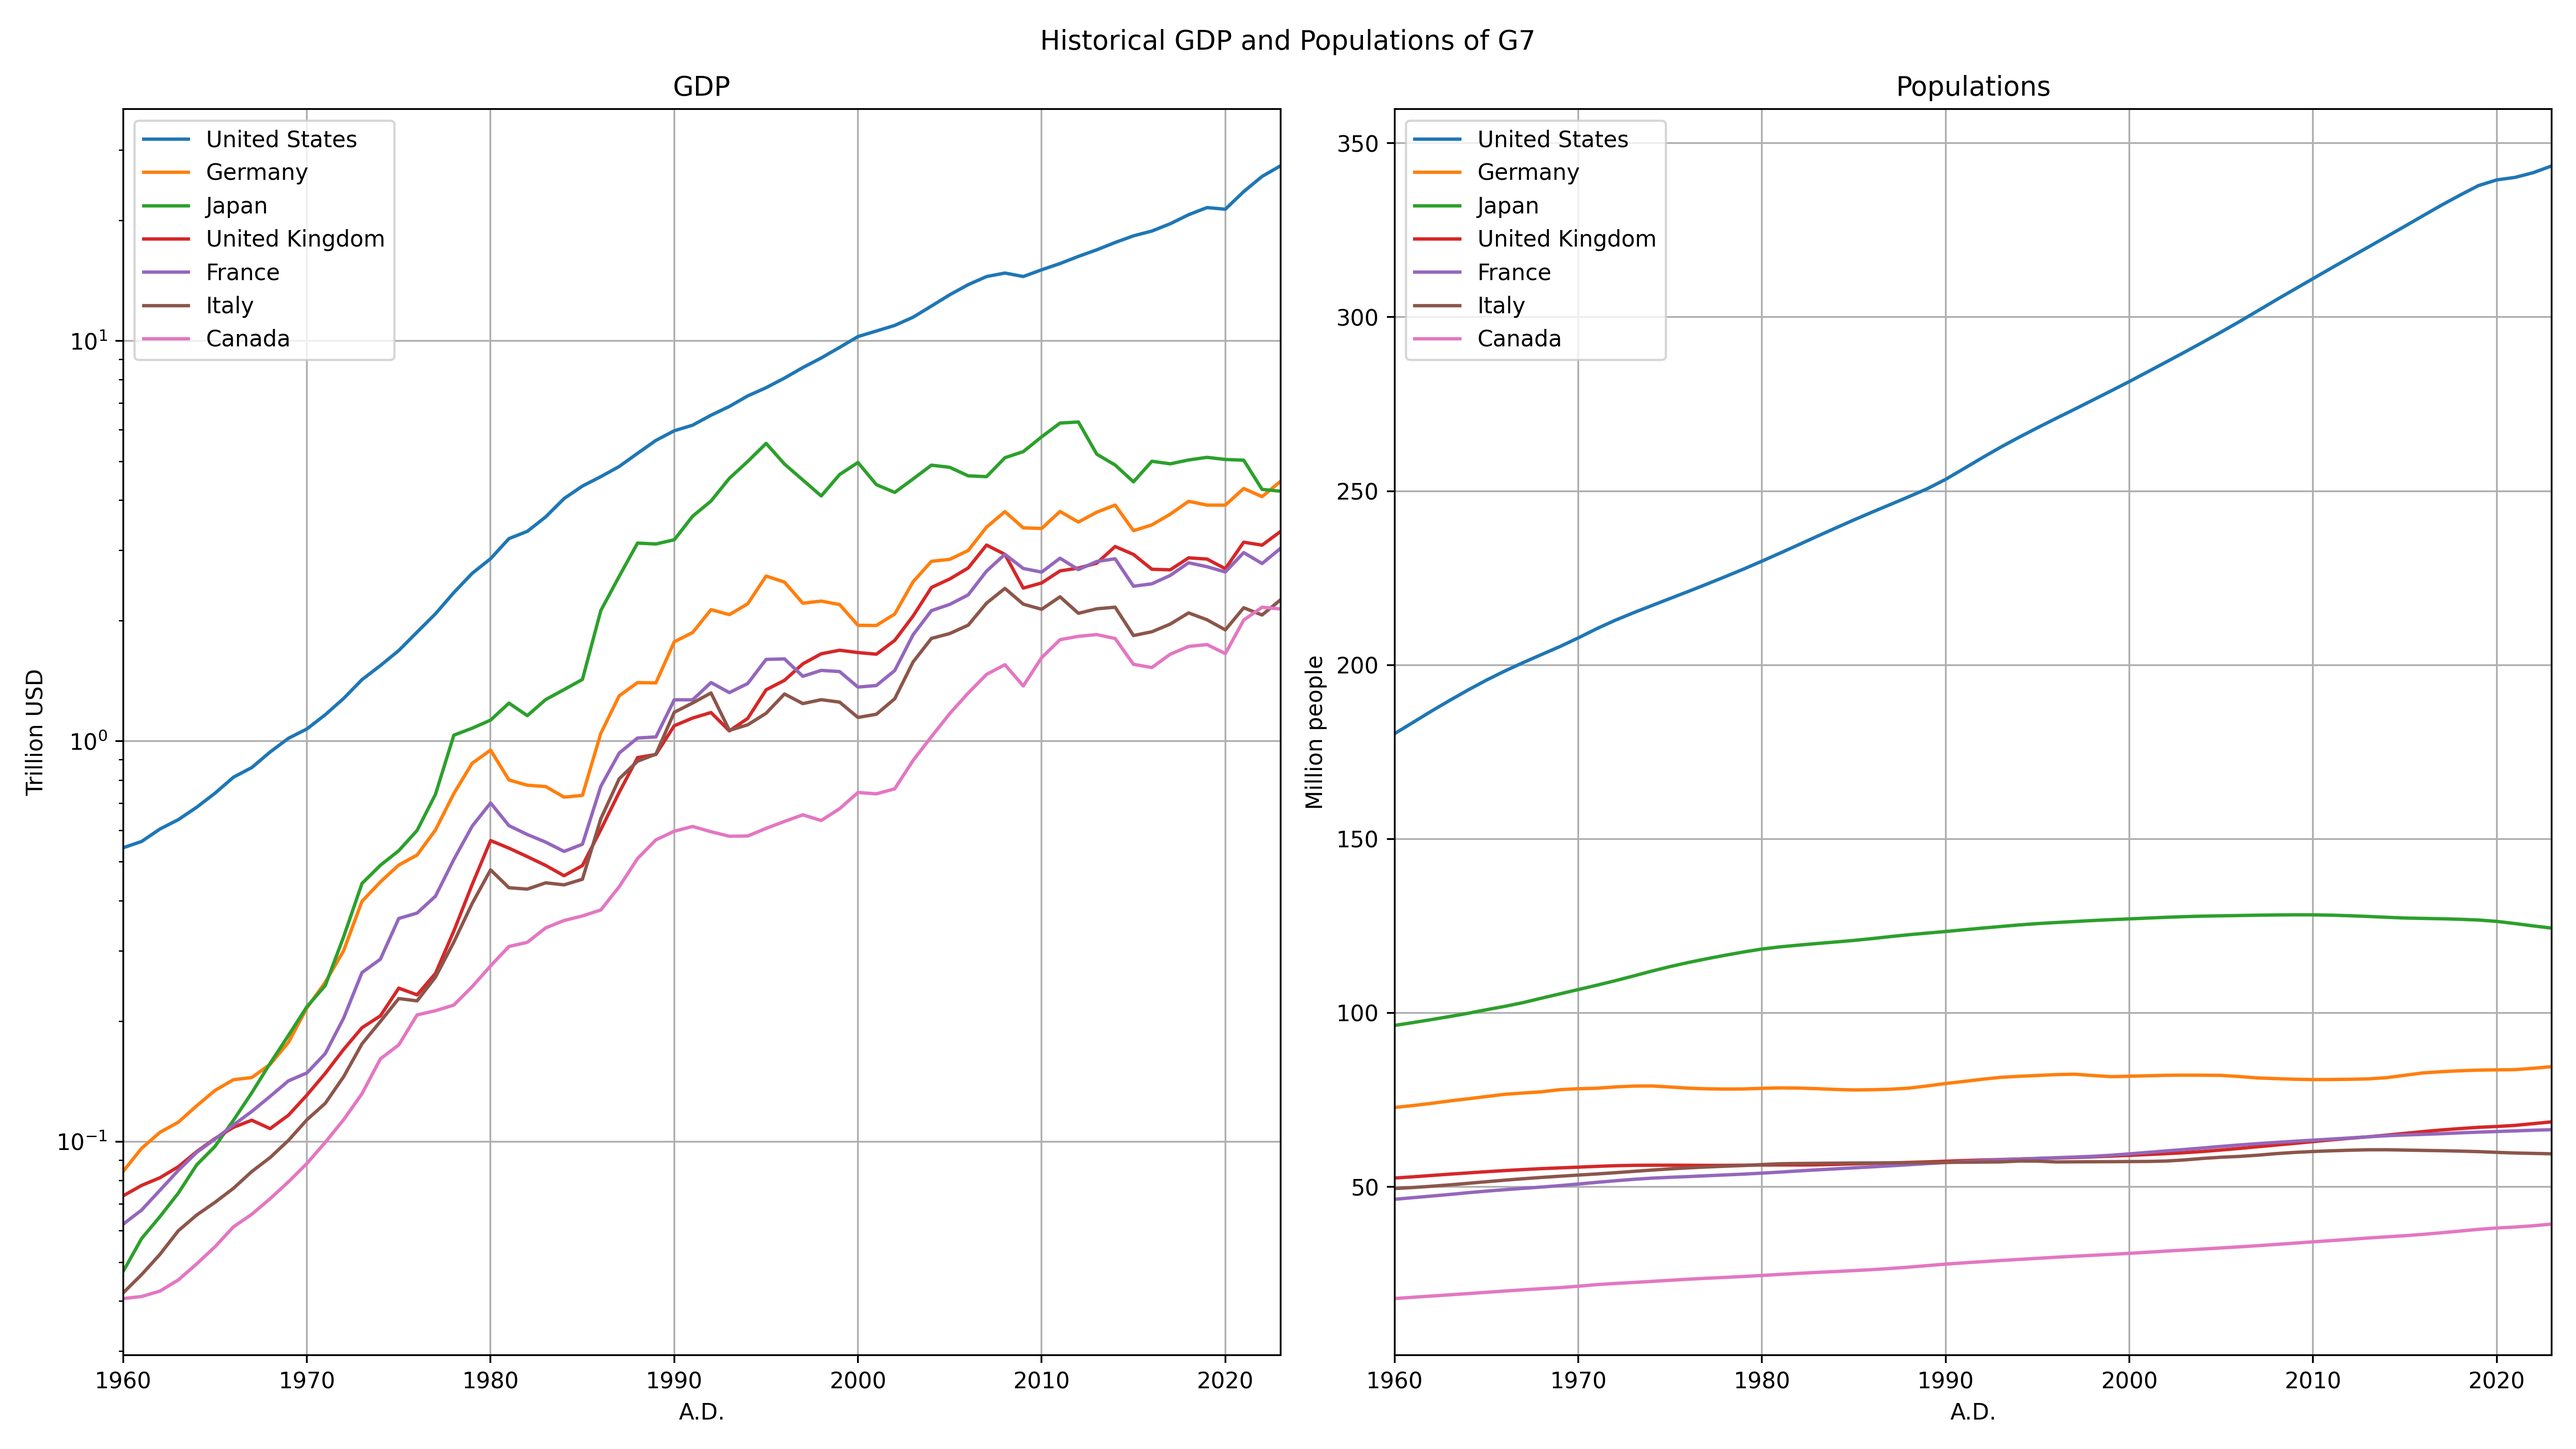
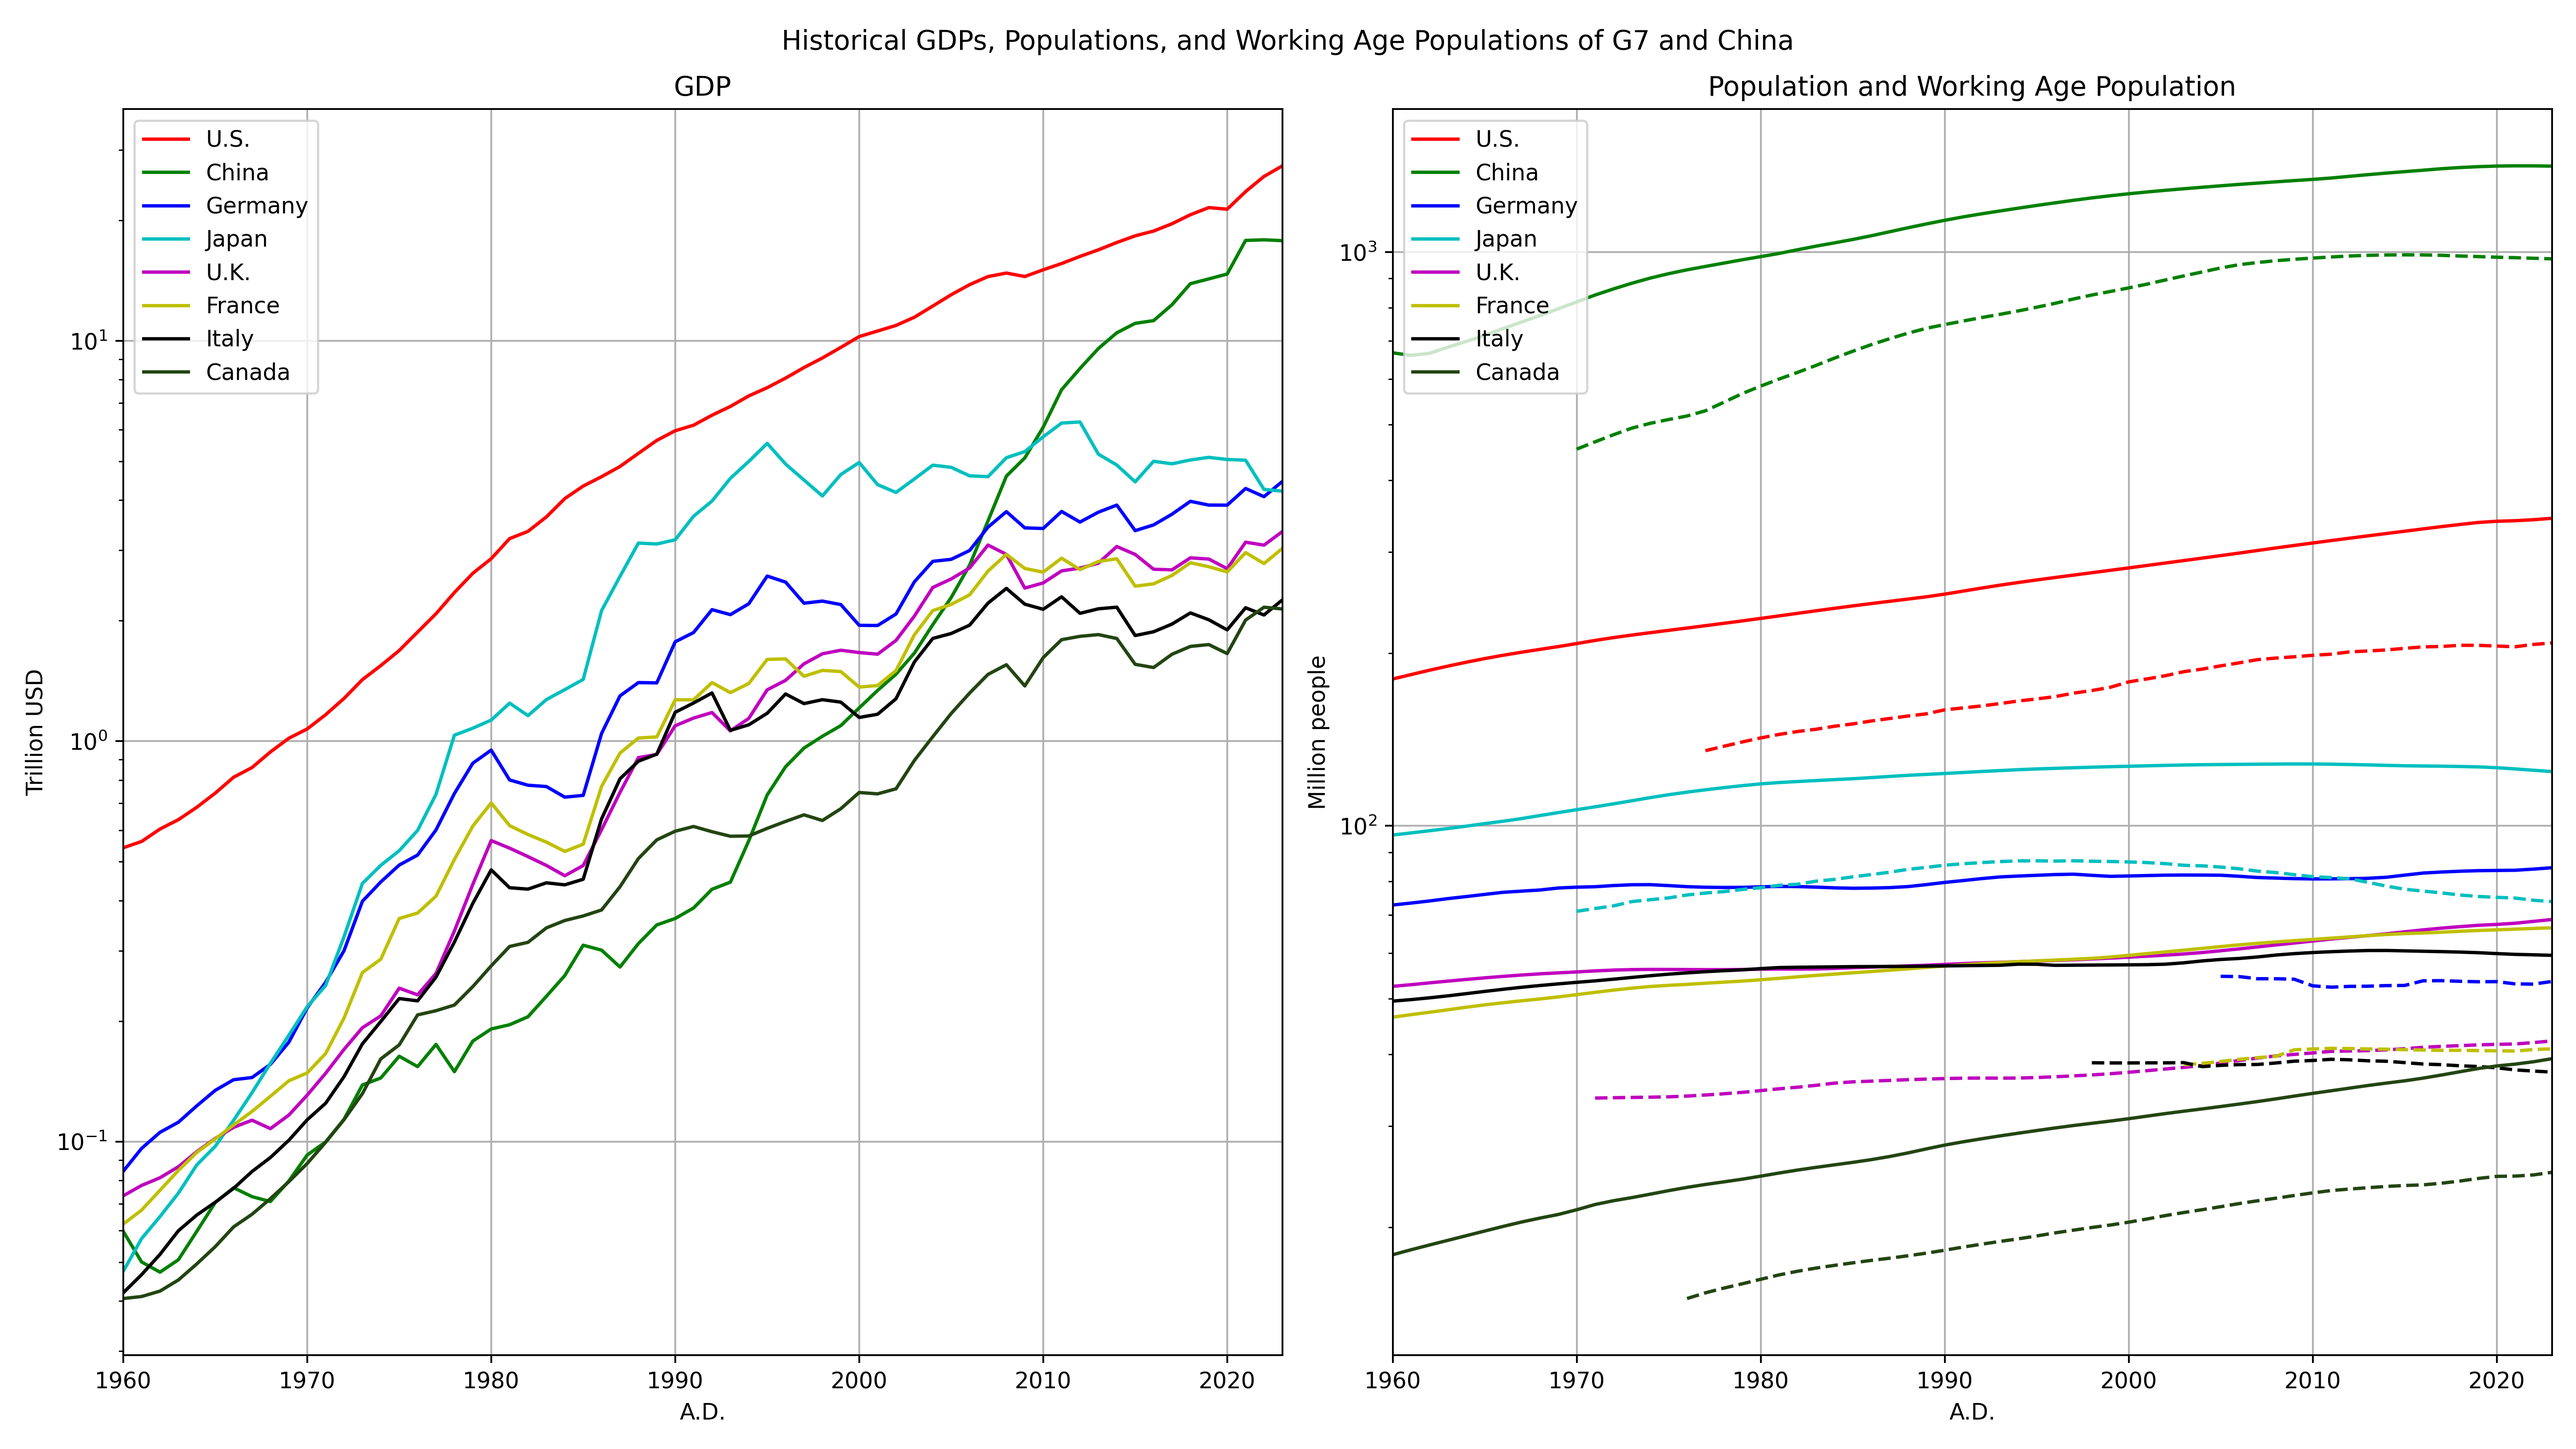
feat working age populations

diff --git a/g7_china.py b/g7_china.py
@@ -1,0 +1,59 @@
+# GDP: https://data.worldbank.org/indicator/NY.GDP.MKTP.CD
+# Population: https://ourworldindata.org/grapher/population
+# Working age population: https://fred.stlouisfed.org
+
+import numpy as np
+import pandas as pd
+import matplotlib.pyplot as plt
+
+COUNTRIES = ["U.S.", "China", "Germany", "Japan", "U.K.", "France", "Italy", "Canada"]
+COLORS = ["r", "g", "b", "c", "m", "y", "k", "#234512"]
+
+_gdp, _pop, _wap = pd.read_csv("data/gdp.csv"), pd.read_csv("data/population.csv"), pd.read_csv("data/working_age_population.csv")
+gdp, pop, wap = _gdp[["year"] + COUNTRIES], _pop[["year"] + COUNTRIES], _wap[["year"] + COUNTRIES]
+
+print("Correlation coefficients between GDP and populations:")
+for country in COUNTRIES:
+    print(f"{country.rjust(max([len(w) for w in COUNTRIES]))}: {round(np.corrcoef(gdp[country], pop[country])[0][1], 3): .3f} -- {gdp['year'][0]}-{gdp['year'].iat[-1]} ({gdp['year'].iat[-1] - gdp['year'][0] + 1} years)")
+
+print("Correlation coefficients between GDP and working age populations:")
+for country in COUNTRIES:
+    bound = wap[["year", country]].dropna(how='any')["year"].min()
+    print(f"{country.rjust(max([len(w) for w in COUNTRIES]))}: {round(np.corrcoef(gdp[gdp['year'] >= bound][country], wap[wap['year'] >= bound][country])[0][1], 3): .3f} -- {bound}-{wap['year'].iat[-1]} ({wap['year'].iat[-1] - bound + 1} years)")
+
+pop[COUNTRIES], wap[COUNTRIES] = pop[COUNTRIES].astype(float), wap[COUNTRIES].astype(float)
+
+gdp.loc[:, COUNTRIES] = gdp.loc[:, COUNTRIES].apply(lambda v: v / 1e12)
+pop.loc[:, COUNTRIES] = pop.loc[:, COUNTRIES].apply(lambda v: v / 1e6)
+wap.loc[:, COUNTRIES] = wap.loc[:, COUNTRIES].apply(lambda v: v / 1e6)
+
+fig = plt.figure(figsize=(16, 9))
+
+ax1 = fig.add_subplot(1, 2, 1)
+ax2 = fig.add_subplot(1, 2, 2)
+
+for i, country in enumerate(COUNTRIES):
+    ax1.plot(gdp["year"], gdp[country], label=country, color=COLORS[i])
+    ax2.plot(pop["year"], pop[country], label=country, color=COLORS[i])
+    ax2.plot(wap["year"], wap[country], "--", color=COLORS[i])
+
+ax1.set_title("GDP")
+ax1.set_xlim([gdp["year"][0], gdp["year"].iat[-1]])
+ax1.set_xlabel("A.D.")
+ax1.set_ylabel("Trillion USD")
+ax1.grid()
+ax1.legend()
+ax1.set_yscale("log")
+
+ax2.set_title("Population and Working Age Population")
+ax2.set_xlim([1960, 2023])
+ax2.set_xlabel("A.D.")
+ax2.set_ylabel("Million people")
+ax2.grid()
+ax2.legend()
+ax2.set_yscale("log")
+
+fig.suptitle("Historical GDPs, Populations, and Working Age Populations of G7 and China")
+fig.tight_layout()
+
+plt.savefig("out/out.png", dpi=350)
